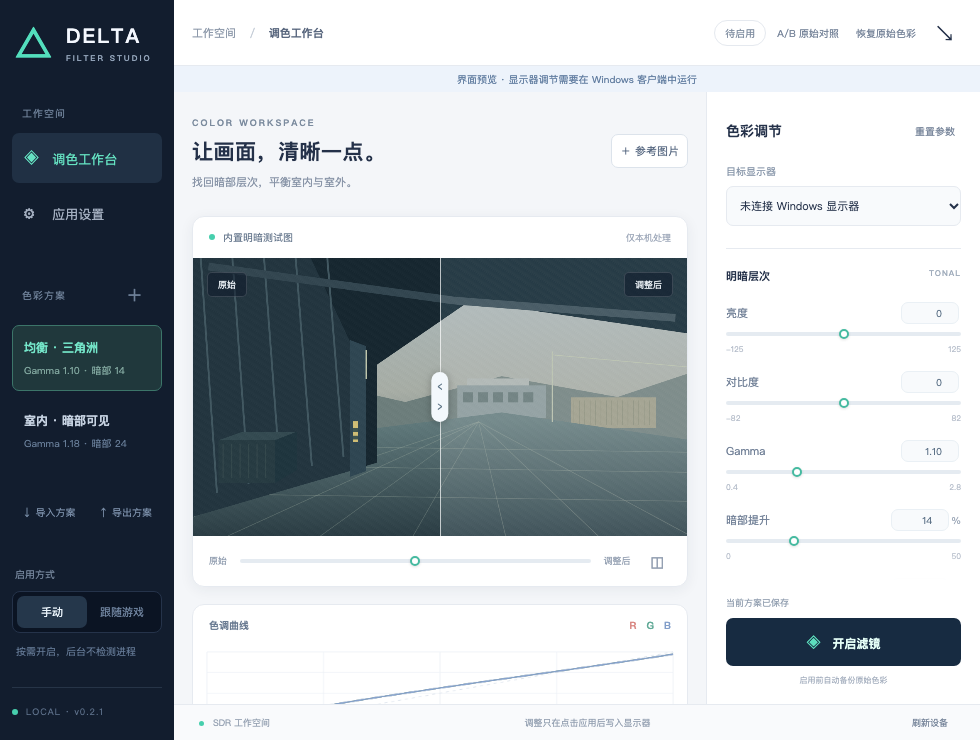
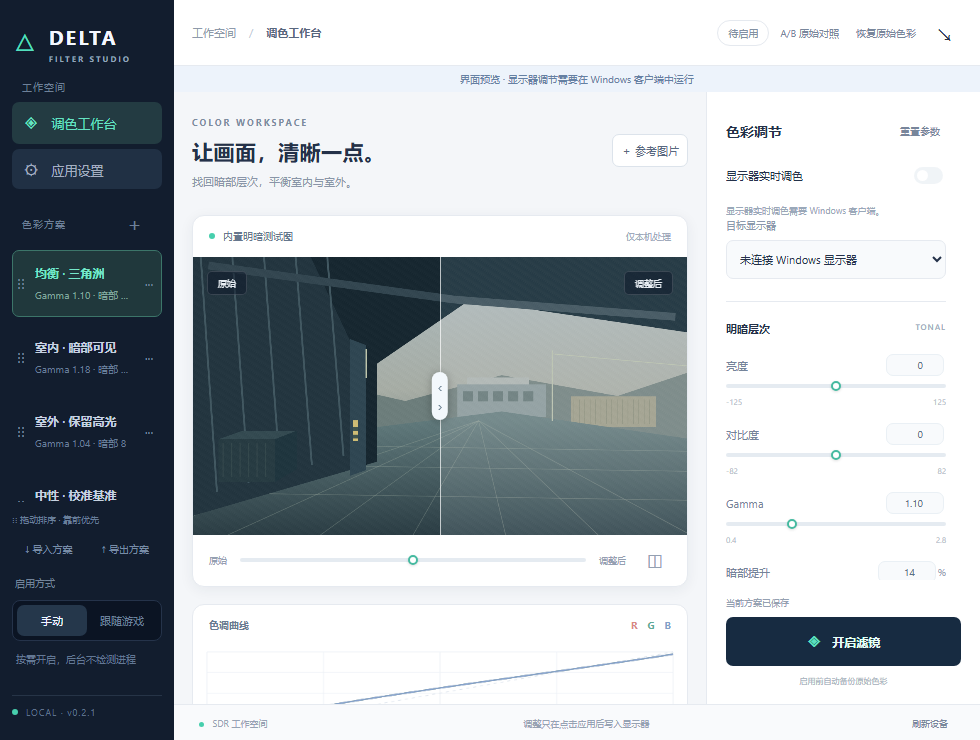
docs: refresh v0.2.1 screenshots and sync them after releases [skip ci]

diff --git a/README.md b/README.md
@@ -12,11 +12,13 @@
 
 ## 程序截图
 
-调色工作台：参考图片分屏对照、RGB 曲线和参数调节。
+以下截图对应最新正式版，由该版本的界面验证流程生成（浏览器预览）。每次成功发布 Release 后自动同步。
+
+调色工作台：参考图片、RGB 曲线、显示器实时调色开关与方案管理。
 
 ![调色工作台](docs/screenshots/workspace.png)
 
-应用设置：登录启动、托盘、退出恢复和游戏进程联动。
+应用设置：登录启动、托盘、退出恢复和默认游戏进程联动。
 
 ![应用设置](docs/screenshots/settings.png)
 
@@ -100,7 +102,7 @@ npm run tauri -- build --target x86_64-pc-windows-msvc
 
 便携 EXE：`target/x86_64-pc-windows-msvc/release/delta-force-filter-manager.exe`；安装版：相邻 `bundle/nsis/`。macOS 可测试核心和预览 HTML，但硬件调节只在 Windows 实现。浏览器运行 `npm run dev` 会明确标注界面预览，不执行系统调色。
 
-GitHub Actions 验证 Rust 核心/控制器、HTML 交互、方案切换、参考图片与原生 WebView IPC，并生成完整/紧凑/设置截图及进程树空闲报告。仓库维护者手动运行工作流、勾选 `publish_release` 后，验证通过会发布带 EXE、ZIP、安装包、SHA256 校验和的普通 Release，并设为 latest。
+GitHub Actions 验证 Rust 核心/控制器、HTML 交互、方案切换、参考图片与原生 WebView IPC，并生成完整/紧凑/设置截图及进程树空闲报告。仓库维护者手动运行工作流、勾选 `publish_release` 后，验证通过会发布带 EXE、ZIP、安装包、SHA256 校验和的普通 Release，并设为 latest。发布成功后，独立任务会将该构建的三张截图同步到默认分支的 `docs/screenshots/`，自动提交 README 引用的图片；同步失败可单独重跑，不会重复发布客户端。
 
 ```text
 crates/filter-core/   参数、曲线、ICC、图片边界、事务、WCS/GDI/NVAPI、自启与进程
